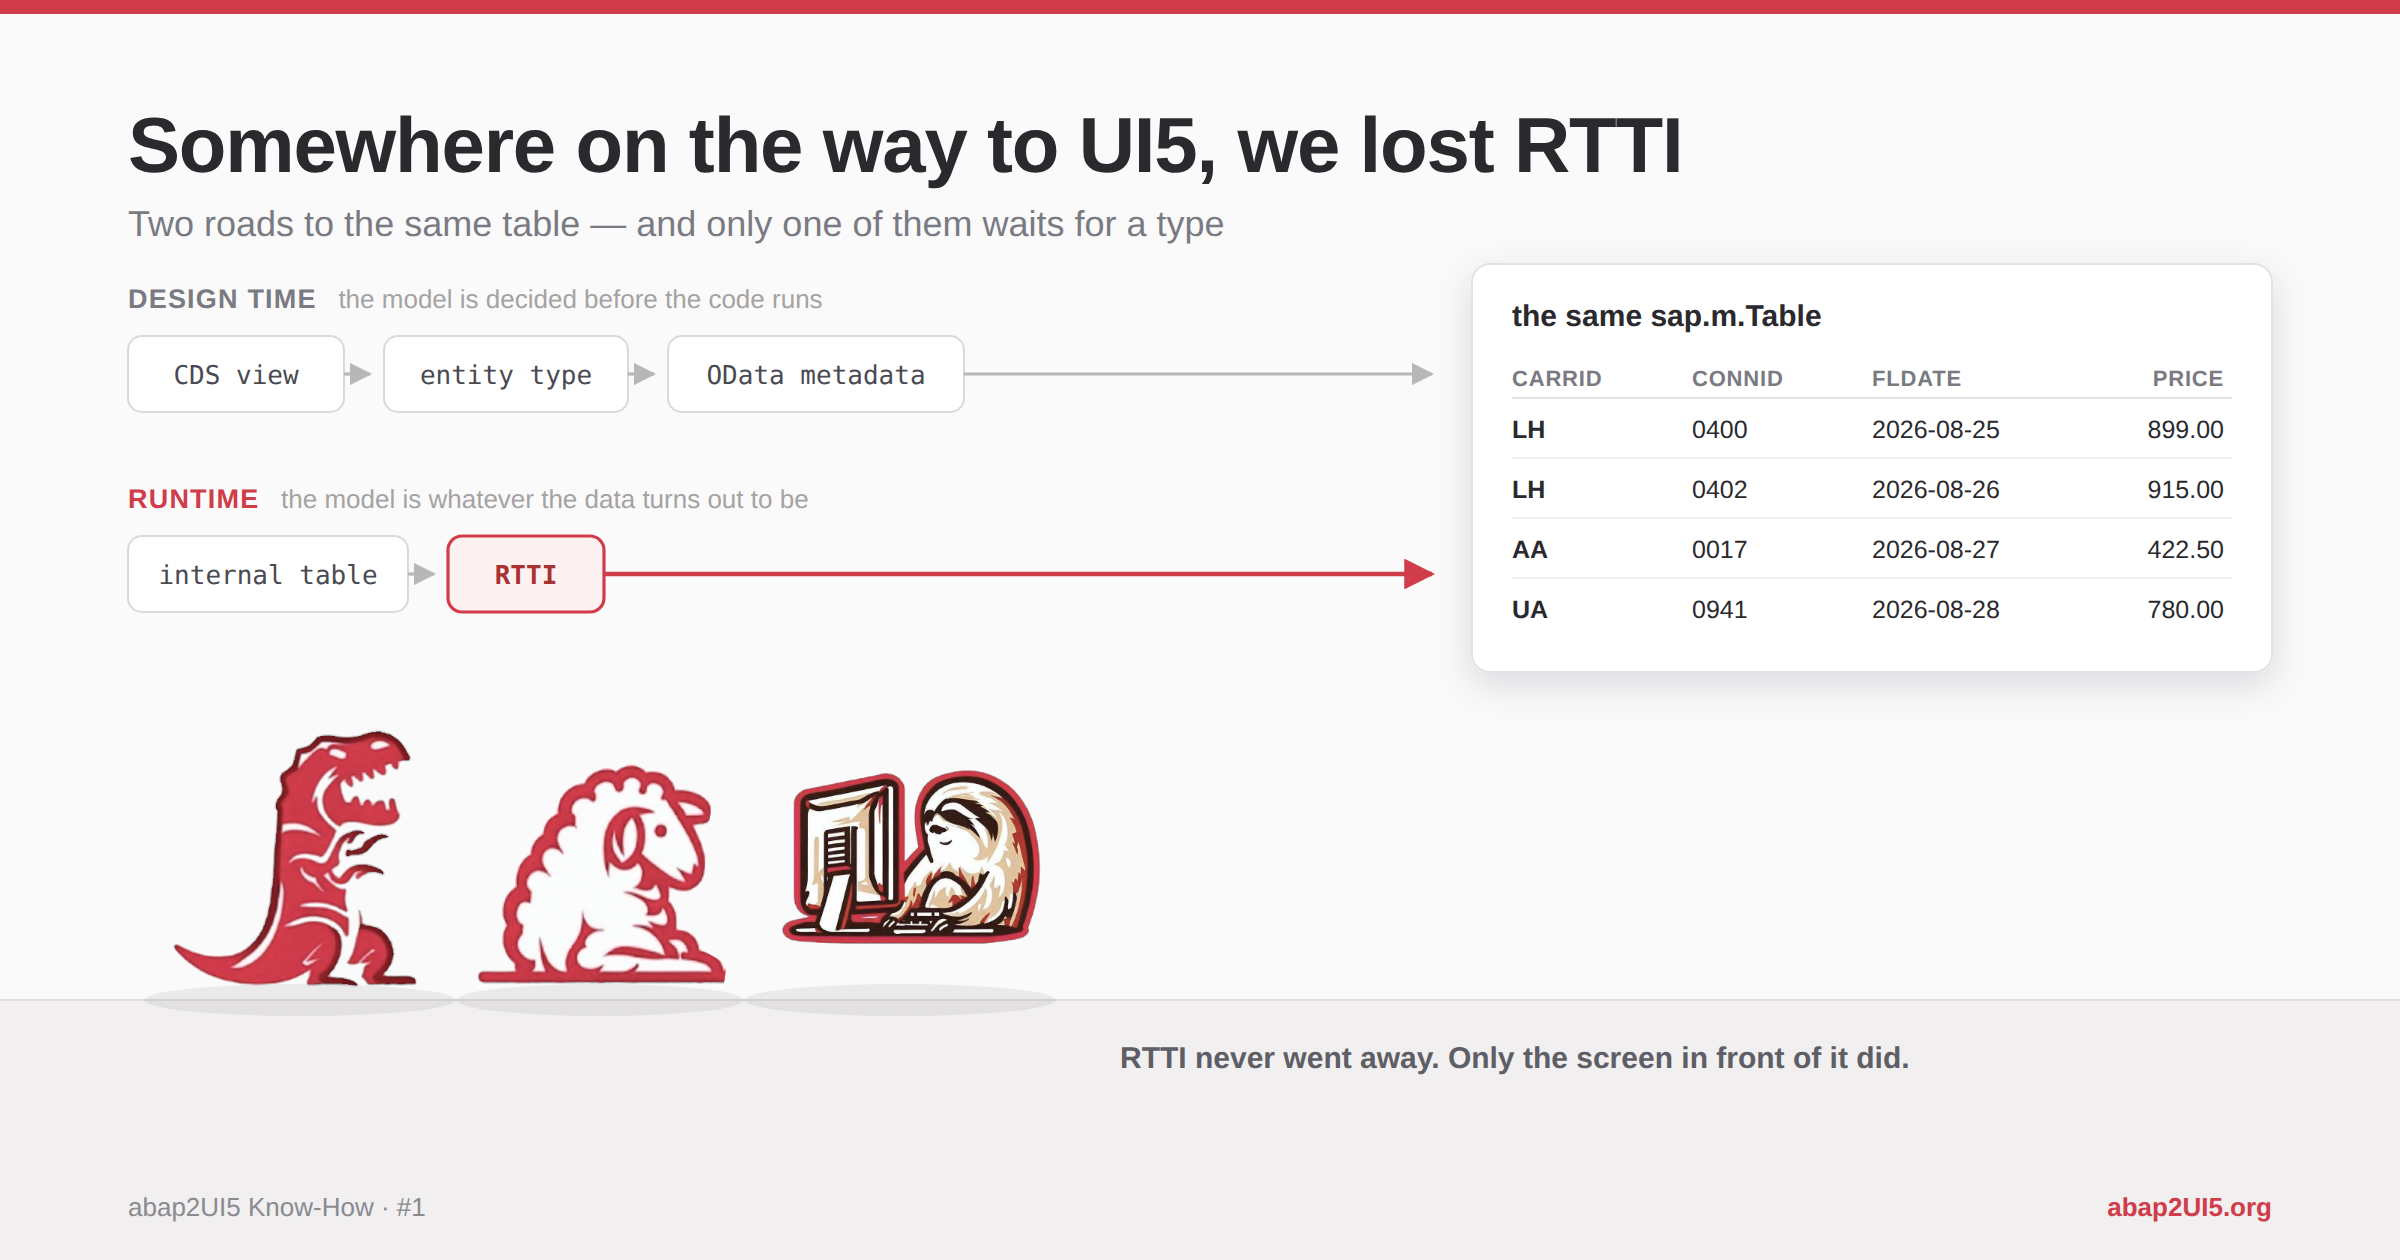
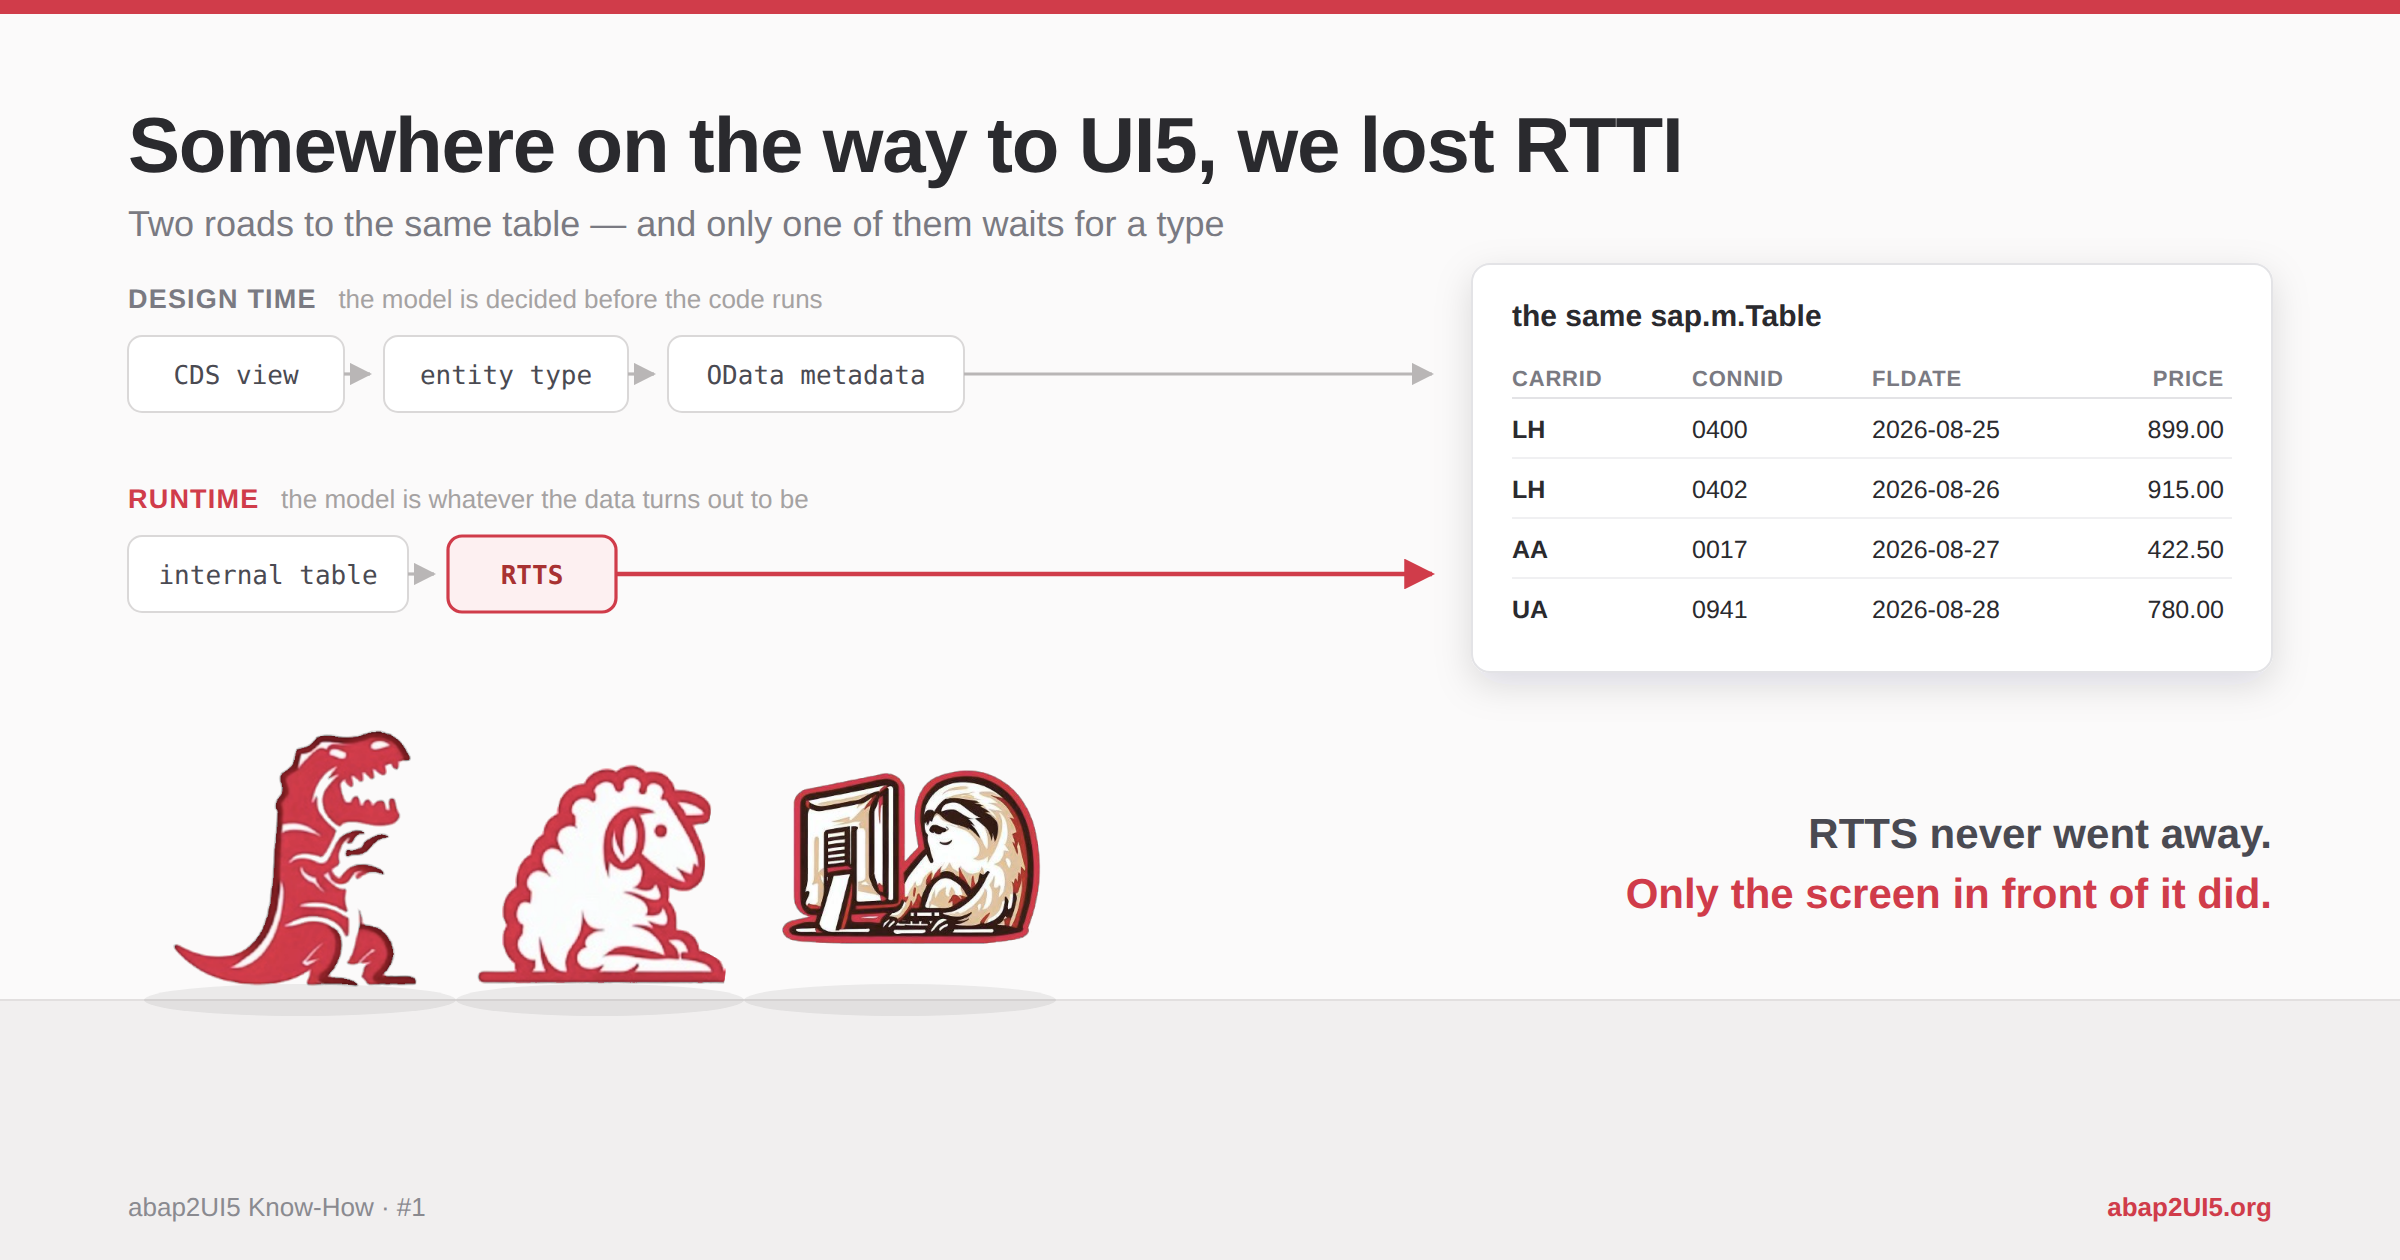
Redo the cover for the article's RTTS/RTTI split
The article now says RTTS for the service throughout and keeps RTTI for the
specific read; the cover still said RTTI in both places it names the thing.
The runtime lane is the service, so its chip is RTTS, and the closing line
quotes the article's conclusion exactly - "RTTS never went away. Only the
screen in front of it did."

The title keeps RTTI, because that is the article's title and its closing ask.
So the cover uses the two words the same way the text does, rather than picking
one and contradicting the piece it fronts.

The caption moved out of the footer. Set just above the ground band it made
three right-aligned lines within 40px of each other, which read as one crowded
block; it now sits in the empty space between the card and the ground, opposite
the mascots, and carries the weight it should at 21px.

Changed region(s): [[0.6875, 0.65, 0.9375, 0.7429], [0.4688, 0.8357, 0.8125, 0.8667], [0.1875, 0.4333, 0.2812, 0.4643]]

diff --git a/blog/assets/make-header.py b/blog/assets/make-header.py
@@ -100,7 +100,7 @@ def lane(y, label, note, steps, accent=False):
 a(lane(168, 'design time', 'the model is decided before the code runs',
        [('CDS view', 108), ('entity type', 122), ('OData metadata', 148)]))
 a(lane(268, 'runtime', 'the model is whatever the data turns out to be',
-       [('internal table', 140), ('RTTI', 78)], accent=True))
+       [('internal table', 140), ('RTTS', 84)], accent=True))
 
 # the shared destination
 CX, CY, CW, CH = 736, 132, 400, 204
@@ -150,8 +150,12 @@ a(img(dino, 78, FLOOR - 144, 150))
 a(img(sheep, 236, FLOOR - 130, 136))
 a(img(sloth, 378, FLOOR - 144, 150))
 
-a(f'<text x="560" y="{FLOOR + 34}" font-size="15" font-weight="700" fill="#5E5E66">'
-  f'RTTI never went away. Only the screen in front of it did.</text>')
+# the caption sits in the empty band between the card and the ground, not
+# stacked on the footer - three right-aligned lines in a row read as one block
+a(f'<text x="{W - 64}" y="424" font-size="21" font-weight="700" fill="#4A4A52" '
+  f'text-anchor="end">RTTS never went away.</text>')
+a(f'<text x="{W - 64}" y="454" font-size="21" font-weight="700" fill="{RED}" '
+  f'text-anchor="end">Only the screen in front of it did.</text>')
 
 a(f'<text x="64" y="{H - 22}" font-size="13" fill="#8A8A90">abap2UI5 Know-How \u00b7 #1</text>')
 a(f'<text x="{W - 64}" y="{H - 22}" font-size="13" font-weight="700" fill="{RED}" '
